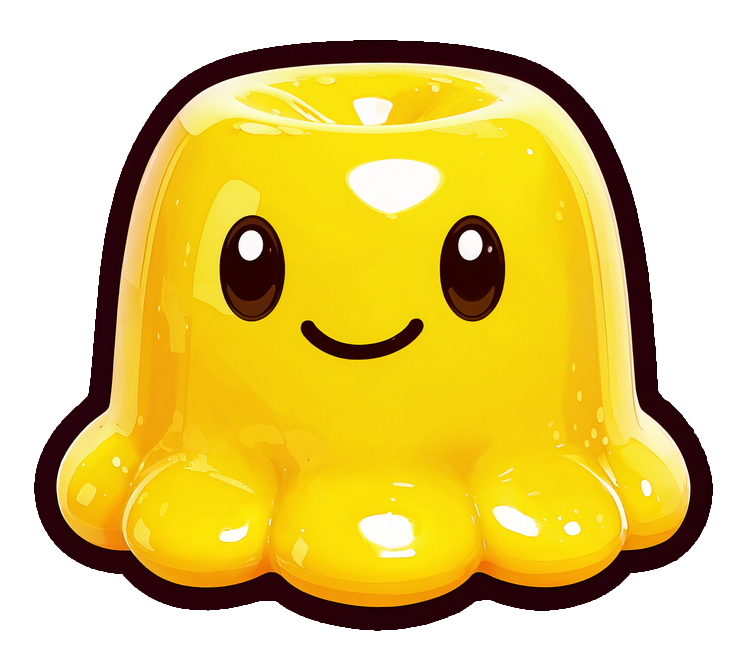
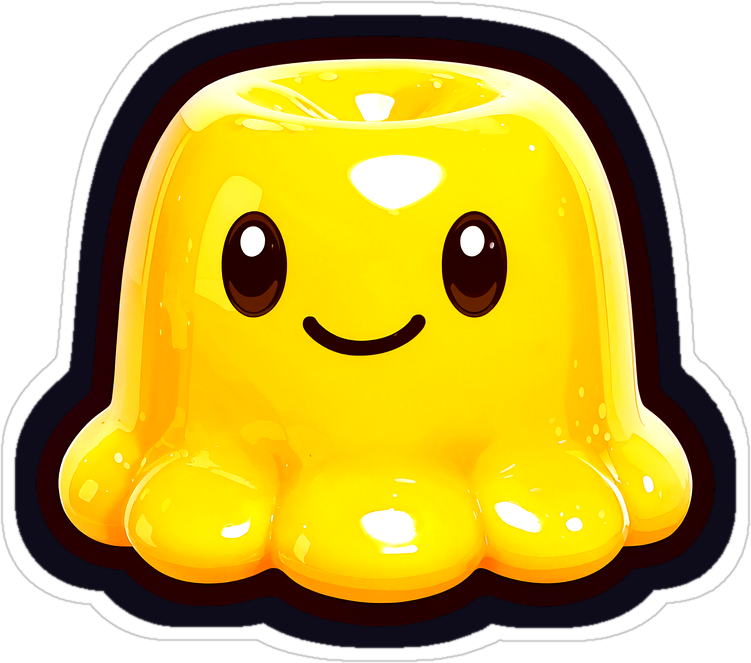
21차-3: 픽업 스프라이트에 굵은 이중 테두리 굽기(bold_outline.py) + 크기 확대 + mipBias — 말랑이 원거리 가독성
Claude-Session: https://claude.ai/code/session_01Y9BB1uU9eKsM2MoxCscQ6S

diff --git a/Tools/Art/bold_outline.py b/Tools/Art/bold_outline.py
@@ -1,0 +1,60 @@
+"""21차-3: 픽업 스프라이트에 굵은 이중 테두리(짙은 남색 + 흰 외곽)를 굽는다.
+셰이더 테두리는 텍셀 단위라 멀리서 사라진다 → 그림 자체에 크기 비례 테두리를 넣어 원거리에서도 또렷하게.
+사용: python bold_outline.py <png...>   (원본은 Tools/Art/_keybackup_r21/ 에 보관)
+"""
+import sys, os, shutil
+from PIL import Image, ImageFilter, ImageEnhance
+import numpy as np
+
+DARK = (14, 12, 26, 255)
+WHITE = (255, 255, 255, 255)
+DARK_PCT = 0.032   # 테두리 두께 = 짧은 변의 %
+WHITE_PCT = 0.020
+
+def dilate(mask, r):
+    if r <= 0: return mask
+    size = 2 * r + 1
+    return mask.filter(ImageFilter.MaxFilter(size))
+
+def process(path):
+    im = Image.open(path).convert('RGBA')
+    w, h = im.size
+    base = min(w, h)
+    d1 = max(3, int(base * DARK_PCT))
+    d2 = max(2, int(base * WHITE_PCT))
+    pad = d1 + d2 + 4
+    canvas = Image.new('RGBA', (w + 2 * pad, h + 2 * pad), (0, 0, 0, 0))
+    canvas.paste(im, (pad, pad), im)
+    a = np.array(canvas)[:, :, 3]
+    # 마젠타 프린지 제거: 반투명 가장자리의 색을 안쪽 색으로 밀어 넣는 대신 알파를 이진화(경계는 테두리가 덮는다)
+    mask = Image.fromarray(((a > 110) * 255).astype(np.uint8))
+    # 작은 구멍 메우기
+    mask = mask.filter(ImageFilter.MaxFilter(5)).filter(ImageFilter.MinFilter(5))
+    dark = dilate(mask, d1)
+    white = dilate(dark, d2)
+    # 살짝 부드럽게
+    dark_s = dark.filter(ImageFilter.GaussianBlur(0.8))
+    white_s = white.filter(ImageFilter.GaussianBlur(0.8))
+    out = Image.new('RGBA', canvas.size, (0, 0, 0, 0))
+    out.paste(Image.new('RGBA', canvas.size, WHITE), (0, 0), white_s)
+    out.paste(Image.new('RGBA', canvas.size, DARK), (0, 0), dark_s)
+    # 본체: 채도·대비 살짝 올리고 마스크로 잘라 붙인다
+    body = ImageEnhance.Color(canvas).enhance(1.15)
+    body = ImageEnhance.Contrast(body).enhance(1.08)
+    body_a = np.array(body); body_a[:, :, 3] = np.array(mask.filter(ImageFilter.GaussianBlur(0.6)))
+    body = Image.fromarray(body_a)
+    out.alpha_composite(body)
+    # 여백 크롭(흰 테두리 밖 4px)
+    bbox = white.getbbox()
+    out = out.crop((max(0, bbox[0] - 2), max(0, bbox[1] - 2), min(out.width, bbox[2] + 2), min(out.height, bbox[3] + 2)))
+    return out
+
+if __name__ == '__main__':
+    bk = os.path.join(os.path.dirname(os.path.abspath(__file__)), '_keybackup_r21')
+    os.makedirs(bk, exist_ok=True)
+    for p in sys.argv[1:]:
+        dst = os.path.join(bk, os.path.basename(p))
+        if not os.path.exists(dst): shutil.copy2(p, dst)
+        out = process(p)
+        out.save(p, optimize=True)
+        print(os.path.basename(p), out.size)

diff --git a/Assets/_CoastRun/Scripts/Rendering/PaintedProp.cs b/Assets/_CoastRun/Scripts/Rendering/PaintedProp.cs
@@ -7,6 +7,12 @@ namespace CoastRun
     /// missing the caller keeps its procedural visual, so the game never breaks.
     public static class PaintedProp
     {
+        /// 21차-3: 그림에 이미 굵은 이중 테두리(남색+흰)를 구운 키 — 셰이더 테두리는 얇게만(흰 링을 덮지 않게).
+        /// Tools/Art/bold_outline.py 로 굽는다. 셰이더 텍셀 테두리는 멀리서 사라지지만 구운 테두리는 크기에 비례해 남는다.
+        private static bool HasBakedOutline(string key) =>
+            key.StartsWith("Jelly_") || key.StartsWith("Coin") || key == "Potion" || key == "Heart" || key == "Star";
+        private static float OutlineTexels(string key, Texture2D tex) =>
+            HasBakedOutline(key) ? 1.5f : Mathf.Clamp(tex.width / 120f, 4f, 10f);
         public static Texture2D Load(string key) =>
             Resources.Load<Texture2D>(ArtAssets.ResourceRoot + "Obs_" + key);
 
@@ -50,7 +56,7 @@ namespace CoastRun
                 // 14차-9: 흰 테두리는 밝은 배경에서 뿌옇게 번져 보였다 → 짙은 남색 굵은 선(레퍼런스의 볼드 아웃라인).
                 // 14차-10: 더 진하고 굵게(거의 검정 남색, 1024px 기준 8텍셀)
                 mat.SetColor("_OutlineColor", new Color(0.06f, 0.05f, 0.10f, 1f));
-                mat.SetFloat("_OutlineWidth", Mathf.Clamp(tex.width / 120f, 4f, 10f));
+                mat.SetFloat("_OutlineWidth", OutlineTexels(key, tex));
             }
             var mr = quad.GetComponent<Renderer>();
             mr.sharedMaterial = mat;
@@ -74,7 +80,7 @@ namespace CoastRun
                 if (bm.HasProperty("_KeyColor")) bm.SetColor("_KeyColor", new Color(1f, 0f, 1f, 1f));
                 if (bm.HasProperty("_OutlineOn")) bm.SetFloat("_OutlineOn", 1f);
                 if (bm.HasProperty("_OutlineColor")) bm.SetColor("_OutlineColor", new Color(0.06f, 0.05f, 0.10f, 1f));
-                if (bm.HasProperty("_OutlineWidth")) bm.SetFloat("_OutlineWidth", Mathf.Clamp(tex.width / 120f, 4f, 10f));
+                if (bm.HasProperty("_OutlineWidth")) bm.SetFloat("_OutlineWidth", OutlineTexels(key, tex));
                 if (bm.HasProperty("_Shade")) bm.SetFloat("_Shade", 0f);
                 var br = back.GetComponent<Renderer>();
                 br.sharedMaterial = bm;

diff --git a/Assets/_CoastRun/Scripts/Economy/JellyPickup.cs b/Assets/_CoastRun/Scripts/Economy/JellyPickup.cs
@@ -63,7 +63,7 @@ namespace CoastRun
             switch (kind)
             {
                 case PickupKind.Potion:
-                    if (PaintedProp.Available("Potion")) PaintedProp.Attach(vis, "Potion", 0.9f, replace: false, outline: true);
+                    if (PaintedProp.Available("Potion")) PaintedProp.Attach(vis, "Potion", 1.0f, replace: false, outline: true);
                     else BuildPotion(vis);
                     radius = 0.6f;
                     break;
@@ -73,16 +73,16 @@ namespace CoastRun
                     radius = 0.8f;
                     break;
                 case PickupKind.BigJelly:
-                    BuildJelly(vis, colorIndex, 0.42f, true);
+                    BuildJelly(vis, colorIndex, 0.48f, true);   // 21차-3: 더 크게
                     radius = 0.6f;
                     break;
                 case PickupKind.Heart:
-                    if (PaintedProp.Available("Heart")) PaintedProp.Attach(vis, "Heart", 0.8f, replace: false, outline: true);
+                    if (PaintedProp.Available("Heart")) PaintedProp.Attach(vis, "Heart", 0.9f, replace: false, outline: true);
                     else BuildHeart(vis);
                     radius = 0.7f;
                     break;
                 default:
-                    BuildJelly(vis, colorIndex, 0.3f, false);
+                    BuildJelly(vis, colorIndex, 0.36f, false);   // 21차-3: 0.3→0.36, 멀리서도 읽히게
                     radius = 0.55f;
                     break;
             }

diff --git a/Assets/_CoastRun/Scripts/Economy/CoinPickup.cs b/Assets/_CoastRun/Scripts/Economy/CoinPickup.cs
@@ -92,7 +92,7 @@ namespace CoastRun
             if (PaintedProp.Available(paintedKey))
             {
                 // 14차-5: 더 크게(0.8 m) + 흰 테두리 — 돌길 위에서 금색이 또렷하게 떨어져 보이게.
-                coin._painted = PaintedProp.Attach(visRoot, paintedKey, 0.8f, replace: false, groundLift: -0.15f, outline: true);
+                coin._painted = PaintedProp.Attach(visRoot, paintedKey, 0.9f, replace: false, groundLift: -0.15f, outline: true);   // 21차-3: 0.8→0.9
                 if (coin._painted != null) coin._paintedScale = coin._painted.localScale;
                 var pcol = go.AddComponent<SphereCollider>();
                 pcol.isTrigger = true;
